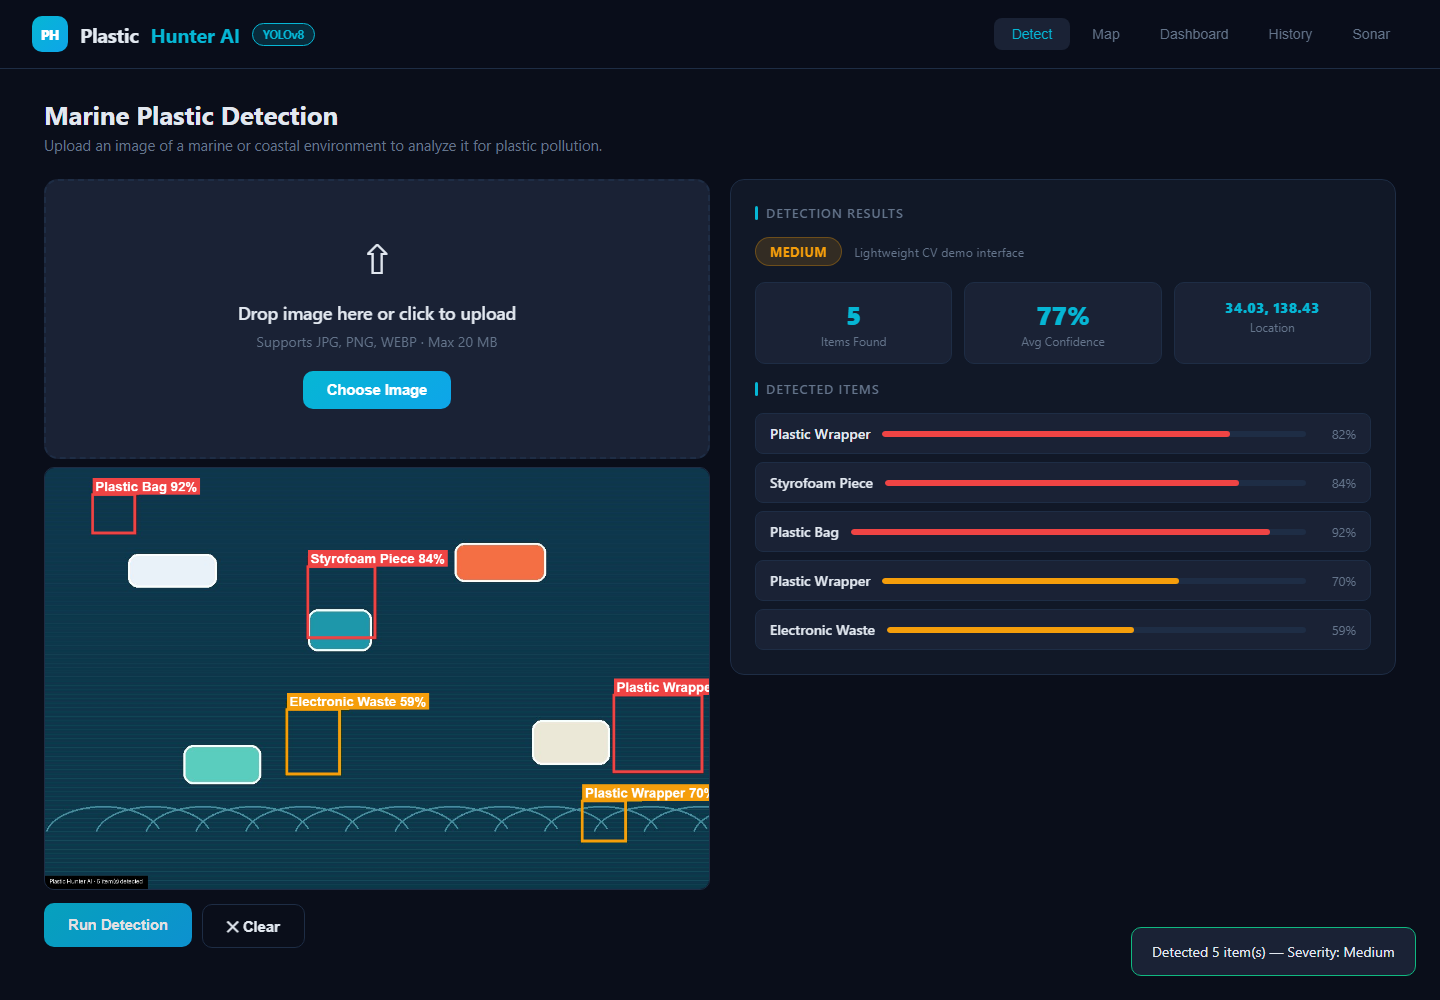
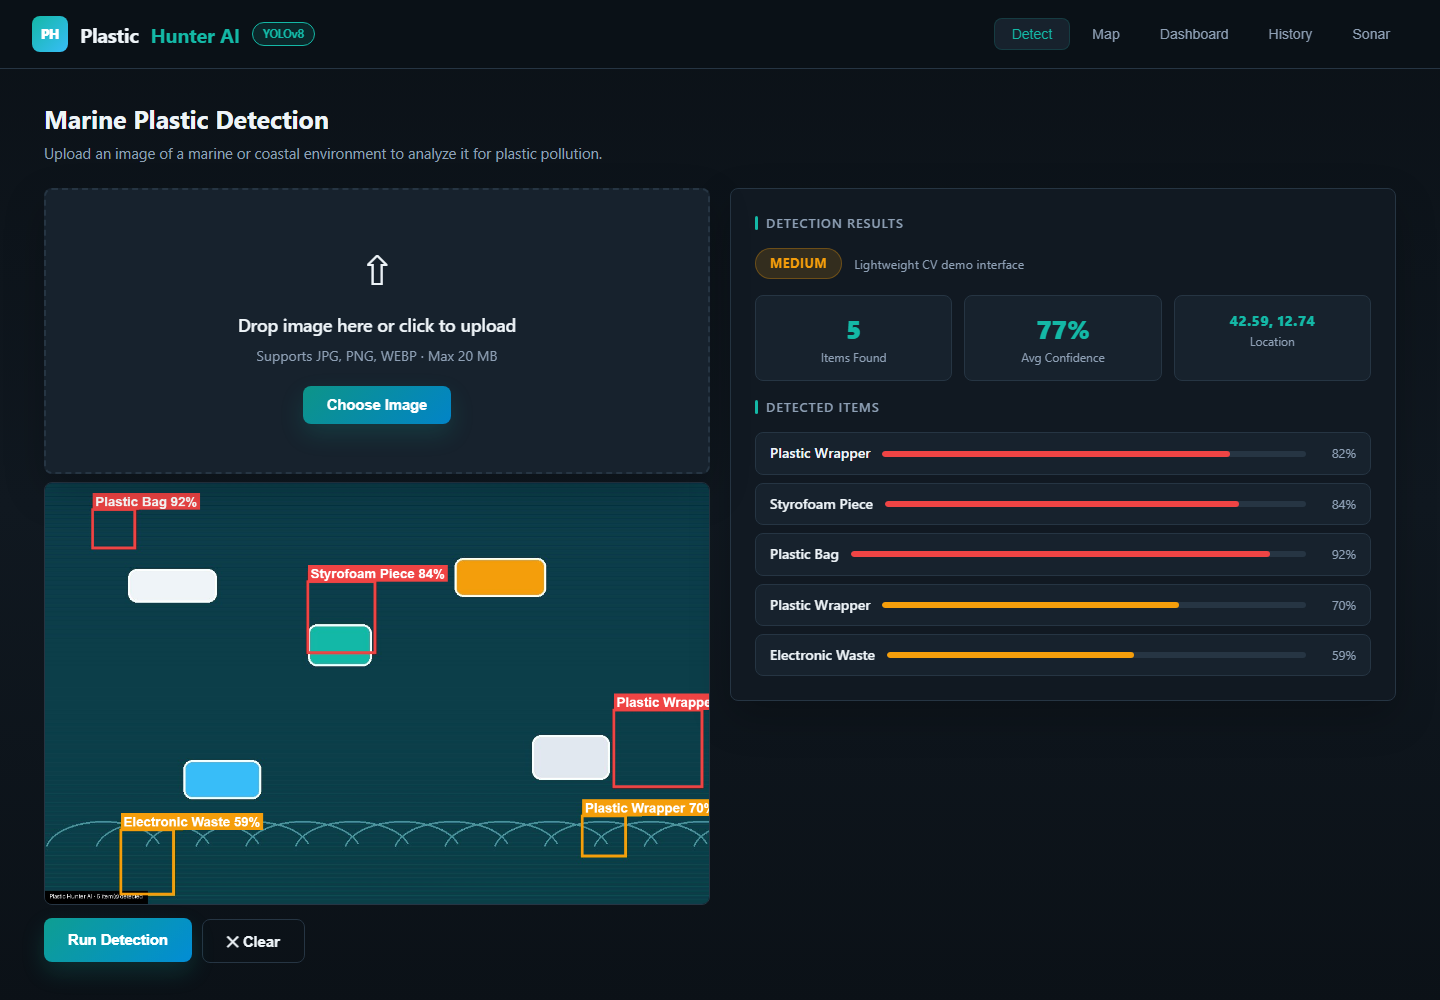
Refine dashboard theme

diff --git a/static/index.html b/static/index.html
@@ -14,44 +14,50 @@
 
   <style>
     :root {
-      --bg: #0a0e1a;
-      --surface: #111827;
-      --surface2: #1a2235;
-      --border: #1e2d45;
-      --accent: #06b6d4;
-      --accent2: #0ea5e9;
-      --accent-glow: rgba(6,182,212,0.18);
-      --green: #10b981;
+      --bg: #0b1117;
+      --surface: #111922;
+      --surface2: #17222d;
+      --surface3: #1d2a36;
+      --border: #263543;
+      --border-strong: #344758;
+      --accent: #14b8a6;
+      --accent2: #38bdf8;
+      --accent-glow: rgba(20,184,166,0.14);
+      --green: #22c55e;
       --yellow: #f59e0b;
-      --red: #ef4444;
-      --text: #e2e8f0;
-      --muted: #64748b;
-      --radius: 14px;
+      --red: #f43f5e;
+      --text: #eef4f8;
+      --muted: #8ea0b5;
+      --fg: #eef4f8;
+      --radius: 8px;
+      --shadow: 0 16px 40px rgba(0,0,0,0.22);
     }
     * { box-sizing: border-box; margin: 0; padding: 0; }
     body {
       font-family: 'Segoe UI', system-ui, -apple-system, sans-serif;
-      background: var(--bg);
+      background:
+        linear-gradient(180deg, #0b1117 0%, #101820 50%, #0b1117 100%);
       color: var(--text);
       min-height: 100vh;
+      line-height: 1.45;
     }
 
     /* ─── NAV ─── */
     nav {
       display: flex; align-items: center; justify-content: space-between;
       padding: 16px 32px;
-      background: rgba(10,14,26,0.95);
+      background: rgba(11,17,23,0.94);
       border-bottom: 1px solid var(--border);
       position: sticky; top: 0; z-index: 999;
-      backdrop-filter: blur(12px);
+      backdrop-filter: blur(14px);
     }
     .logo {
       display: flex; align-items: center; gap: 12px;
       font-size: 1.25rem; font-weight: 700; letter-spacing: -0.3px;
     }
     .logo-icon {
-      width: 36px; height: 36px; border-radius: 10px;
-      background: linear-gradient(135deg,#06b6d4,#0ea5e9);
+      width: 36px; height: 36px; border-radius: var(--radius);
+      background: linear-gradient(135deg,#14b8a6,#38bdf8);
       display: flex; align-items: center; justify-content: center;
       font-size: 18px;
     }
@@ -59,7 +65,7 @@
     .nav-badge {
       font-size: 0.72rem; background: var(--accent-glow);
       border: 1px solid var(--accent); color: var(--accent);
-      padding: 3px 10px; border-radius: 100px;
+      padding: 3px 10px; border-radius: 999px;
     }
     .nav-tabs {
       display: flex; gap: 4px;
@@ -72,17 +78,20 @@
     .nav-tab.active, .nav-tab:hover {
       background: var(--surface2); color: var(--text);
     }
-    .nav-tab.active { color: var(--accent); }
+    .nav-tab.active {
+      color: var(--accent);
+      box-shadow: inset 0 0 0 1px rgba(20,184,166,0.18);
+    }
 
     /* ─── PAGE LAYOUT ─── */
-    main { max-width: 1400px; margin: 0 auto; padding: 28px 24px; }
+    main { max-width: 1400px; margin: 0 auto; padding: 32px 24px 44px; }
     .section { display: none; }
     .section.active { display: block; }
 
     /* ─── PAGE HEADER ─── */
     .page-header { margin-bottom: 24px; }
-    .page-header h2 { font-size: 1.6rem; font-weight: 700; }
-    .page-header p { color: var(--muted); font-size: 0.92rem; margin-top: 4px; }
+    .page-header h2 { font-size: 1.55rem; font-weight: 760; letter-spacing: 0; }
+    .page-header p { color: var(--muted); font-size: 0.92rem; margin-top: 6px; max-width: 760px; }
 
     /* ─── CARDS ─── */
     .card {
@@ -90,6 +99,7 @@
       border: 1px solid var(--border);
       border-radius: var(--radius);
       padding: 24px;
+      box-shadow: var(--shadow);
     }
     .card-title {
       font-size: 0.82rem; font-weight: 600; letter-spacing: 0.06em;
@@ -119,7 +129,7 @@
     }
     .upload-zone:hover, .upload-zone.dragover {
       border-color: var(--accent);
-      background: var(--accent-glow);
+      background: rgba(20,184,166,0.08);
     }
     .upload-icon { font-size: 3rem; margin-bottom: 16px; display: block; }
     .upload-title { font-size: 1.1rem; font-weight: 600; margin-bottom: 8px; }
@@ -128,33 +138,34 @@
 
     .btn {
       display: inline-flex; align-items: center; gap: 8px;
-      padding: 11px 24px; border-radius: 10px; font-weight: 600;
+      padding: 11px 24px; border-radius: var(--radius); font-weight: 650;
       font-size: 0.92rem; cursor: pointer; transition: all .2s;
       border: none;
     }
     .btn-primary {
-      background: linear-gradient(135deg, #06b6d4, #0ea5e9);
+      background: linear-gradient(135deg, #0d9488, #0284c7);
       color: #fff;
+      box-shadow: 0 10px 24px rgba(20,184,166,0.16);
     }
-    .btn-primary:hover { opacity: 0.88; transform: translateY(-1px); }
+    .btn-primary:hover { filter: brightness(1.07); transform: translateY(-1px); }
     .btn-primary:disabled { opacity: .45; cursor: not-allowed; transform: none; }
     .btn-outline {
       background: transparent; border: 1px solid var(--border);
       color: var(--text);
     }
-    .btn-outline:hover { border-color: var(--accent); color: var(--accent); }
+    .btn-outline:hover { border-color: var(--accent); color: var(--accent); background: rgba(20,184,166,0.06); }
 
-    .upload-preview { width: 100%; border-radius: 10px; display: none; margin-top: 12px; }
+    .upload-preview { width: 100%; border-radius: var(--radius); display: none; margin-top: 12px; }
 
     canvas#annotationCanvas {
-      width: 100%; border-radius: 10px; border: 1px solid var(--border);
+      width: 100%; border-radius: var(--radius); border: 1px solid var(--border);
       display: none; margin-top: 8px;
     }
 
     .result-panel { display: flex; flex-direction: column; gap: 16px; }
 
     .severity-badge {
-      display: inline-block; padding: 5px 14px; border-radius: 100px;
+      display: inline-block; padding: 5px 14px; border-radius: 999px;
       font-size: 0.8rem; font-weight: 700; text-transform: uppercase;
       letter-spacing: 0.04em;
     }
@@ -166,7 +177,7 @@
       display: grid; grid-template-columns: repeat(3, 1fr); gap: 12px;
     }
     .stat-mini {
-      background: var(--surface2); border-radius: 10px; padding: 14px;
+      background: var(--surface2); border-radius: var(--radius); padding: 14px;
       text-align: center; border: 1px solid var(--border);
     }
     .stat-mini-value { font-size: 1.6rem; font-weight: 800; color: var(--accent); }
@@ -175,7 +186,7 @@
     .detection-list { display: flex; flex-direction: column; gap: 8px; max-height: 280px; overflow-y: auto; }
     .detection-item {
       display: flex; align-items: center; justify-content: space-between;
-      padding: 10px 14px; background: var(--surface2); border-radius: 8px;
+      padding: 10px 14px; background: var(--surface2); border-radius: var(--radius);
       border: 1px solid var(--border);
     }
     .detection-label { font-size: 0.88rem; font-weight: 500; }
@@ -204,8 +215,9 @@
     .kpi {
       background: var(--surface); border: 1px solid var(--border);
       border-radius: var(--radius); padding: 20px;
+      box-shadow: var(--shadow);
     }
-    .kpi-value { font-size: 2rem; font-weight: 800; color: var(--accent); }
+    .kpi-value { font-size: 2rem; font-weight: 820; color: var(--accent2); }
     .kpi-label { font-size: 0.8rem; color: var(--muted); margin-top: 2px; }
     .kpi-sub { font-size: 0.78rem; color: var(--green); margin-top: 6px; }
 
@@ -218,15 +230,17 @@
     .chart-box {
       background: var(--surface); border: 1px solid var(--border);
       border-radius: var(--radius); padding: 24px;
+      box-shadow: var(--shadow);
     }
     .chart-box canvas { max-height: 260px; }
 
     .reduction-banner {
-      background: linear-gradient(135deg, rgba(6,182,212,0.12), rgba(14,165,233,0.08));
-      border: 1px solid rgba(6,182,212,0.3);
+      background: linear-gradient(135deg, rgba(20,184,166,0.12), rgba(245,158,11,0.07));
+      border: 1px solid rgba(20,184,166,0.26);
       border-radius: var(--radius); padding: 24px 28px;
       display: flex; align-items: center; justify-content: space-between;
       flex-wrap: wrap; gap: 20px;
+      box-shadow: var(--shadow);
     }
     .reduction-left h3 { font-size: 1.1rem; font-weight: 700; }
     .reduction-left p { color: var(--muted); font-size: 0.88rem; margin-top: 4px; max-width: 500px; }
@@ -249,7 +263,7 @@
     .mission-step {
       border: 1px solid var(--border);
       background: var(--surface2);
-      border-radius: 8px;
+      border-radius: var(--radius);
       padding: 12px;
       min-height: 78px;
     }
@@ -268,6 +282,7 @@
       border: 1px solid var(--border);
       border-radius: var(--radius);
       padding: 18px;
+      box-shadow: var(--shadow);
     }
     .stat-label {
       color: var(--muted);
@@ -275,7 +290,7 @@
       text-transform: uppercase;
       letter-spacing: 0.06em;
     }
-    .stat-value { color: var(--accent); font-size: 1.7rem; font-weight: 800; margin-top: 8px; }
+    .stat-value { color: var(--accent2); font-size: 1.7rem; font-weight: 800; margin-top: 8px; }
     .stat-sub { color: var(--muted); font-size: 0.76rem; margin-top: 5px; line-height: 1.35; }
     .status-detected { background: rgba(16,185,129,0.15); color: #10b981; border: 1px solid rgba(16,185,129,0.3); }
     .status-missed { background: rgba(100,116,139,0.15); color: #94a3b8; border: 1px solid rgba(100,116,139,0.3); }
@@ -290,7 +305,7 @@
     }
     td { padding: 12px 14px; border-bottom: 1px solid var(--border); }
     tr:last-child td { border-bottom: none; }
-    tr:hover td { background: var(--surface2); }
+    tr:hover td { background: rgba(23,34,45,0.7); }
 
     /* ─── SPINNER ─── */
     .spinner {
@@ -304,9 +319,10 @@
     .toast {
       position: fixed; bottom: 24px; right: 24px;
       background: var(--surface2); border: 1px solid var(--border);
-      border-radius: 10px; padding: 14px 20px; font-size: 0.88rem;
+      border-radius: var(--radius); padding: 14px 20px; font-size: 0.88rem;
       z-index: 9999; transform: translateY(80px); opacity: 0;
       transition: all .3s; max-width: 320px;
+      box-shadow: var(--shadow);
     }
     .toast.show { transform: translateY(0); opacity: 1; }
     .toast.error { border-color: var(--red); }
@@ -338,7 +354,7 @@
     }
     .sonar-param-group select {
       width: 100%; padding: 7px 10px; background: var(--bg);
-      color: var(--fg); border: 1px solid var(--border); border-radius: 8px;
+      color: var(--fg); border: 1px solid var(--border); border-radius: var(--radius);
       font-size: 0.82rem; cursor: pointer; margin-top: 2px;
     }
     .sonar-param-row { display: grid; grid-template-columns: 1fr 1fr; gap: 12px; }
@@ -356,7 +372,7 @@
     .ppi-wrap {
       position: relative; flex: 1; display: flex;
       align-items: center; justify-content: center;
-      padding: 16px; background: #050a12; min-height: 200px;
+      padding: 16px; background: #061015; min-height: 200px;
     }
     #ppiCanvas { border-radius: 50%; display: block; max-width: 100%; max-height: 340px; }
     .ppi-empty-state {
@@ -377,12 +393,14 @@
       position: fixed; inset: 0; background: rgba(0,0,0,0.72);
       display: flex; align-items: center; justify-content: center;
       z-index: 9990; opacity: 0; pointer-events: none; transition: opacity .2s;
+      backdrop-filter: blur(8px);
     }
     .modal-overlay.open { opacity: 1; pointer-events: all; }
     .modal-box {
       background: var(--surface); border: 1px solid var(--border);
-      border-radius: 16px; padding: 28px; max-width: 680px; width: 92%;
+      border-radius: var(--radius); padding: 28px; max-width: 680px; width: 92%;
       max-height: 84vh; overflow-y: auto;
+      box-shadow: var(--shadow);
     }
     .modal-hdr {
       display: flex; justify-content: space-between; align-items: center;
@@ -395,18 +413,18 @@
     .modal-close:hover { color: var(--fg); }
     /* ─── ECO KPIs ─── */
     .btn-sm {
-      padding: 6px 14px; font-size: 0.75rem; border-radius: 8px;
+      padding: 6px 14px; font-size: 0.75rem; border-radius: var(--radius);
       background: var(--surface2); border: 1px solid var(--border);
       color: var(--fg); cursor: pointer; transition: all .15s;
     }
-    .btn-sm:hover { border-color: var(--accent); color: var(--accent); }
+    .btn-sm:hover { border-color: var(--accent); color: var(--accent); background: rgba(20,184,166,0.06); }
     .eco-kpis {
       display: grid; grid-template-columns: repeat(4, 1fr); gap: 12px; margin-top: 14px;
     }
     @media (max-width: 860px) { .eco-kpis { grid-template-columns: 1fr 1fr; } }
     .eco-kpi {
       background: var(--bg); border: 1px solid var(--border);
-      border-radius: 10px; padding: 14px; text-align: center;
+      border-radius: var(--radius); padding: 14px; text-align: center;
     }
     .eco-kpi-val { font-size: 1.55rem; font-weight: 700; color: var(--green); }
     .eco-kpi-lbl { font-size: 0.71rem; color: var(--muted); margin-top: 4px; }
